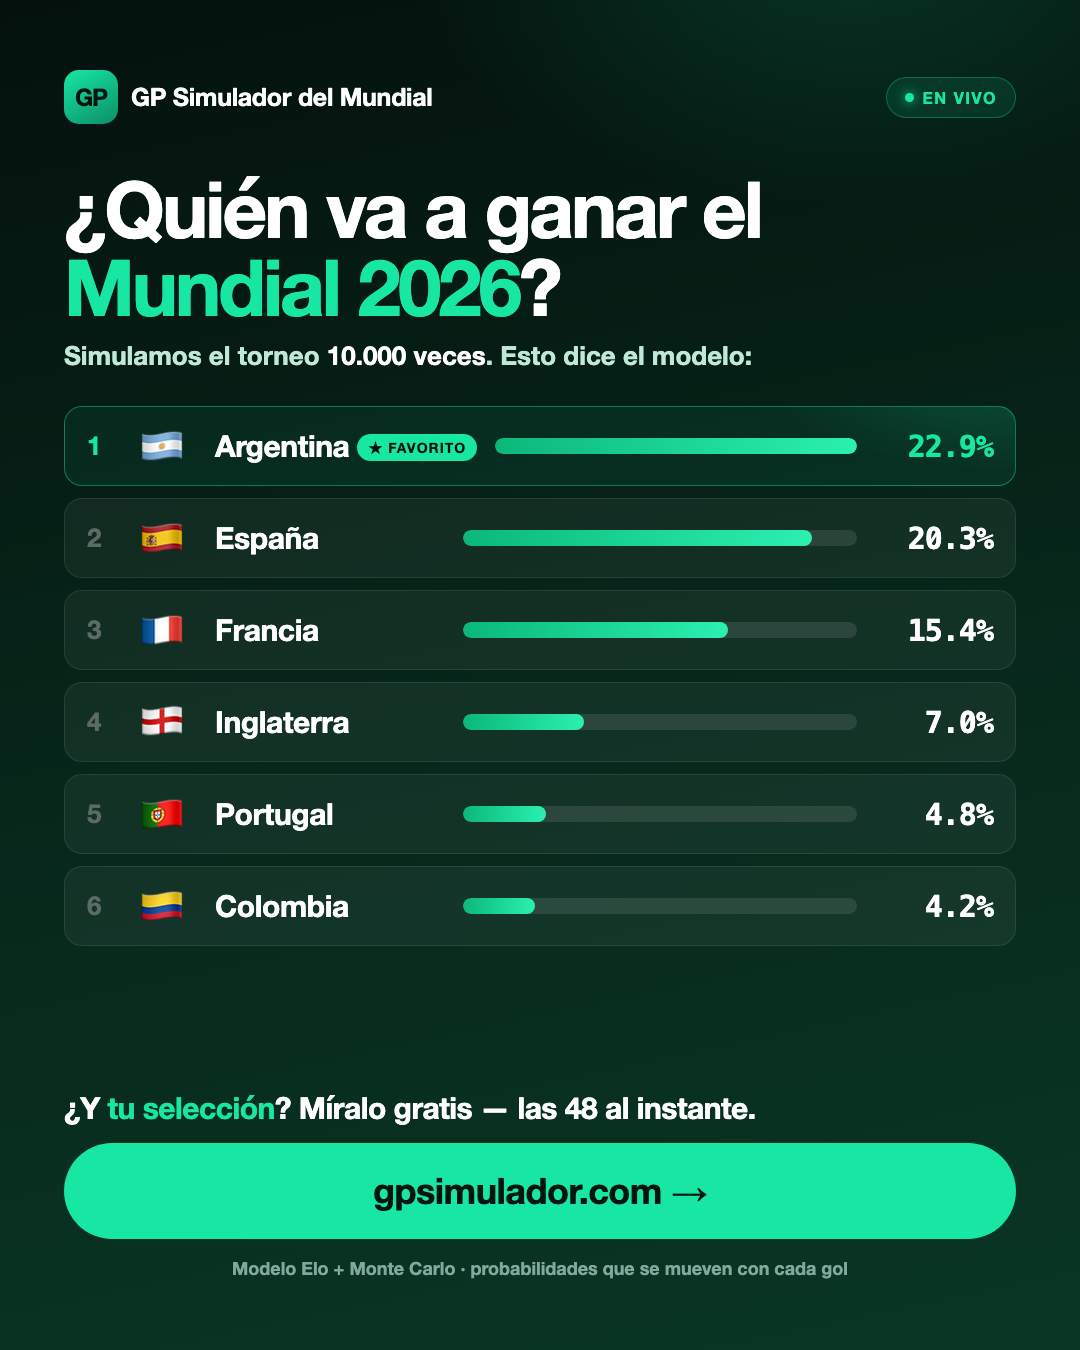
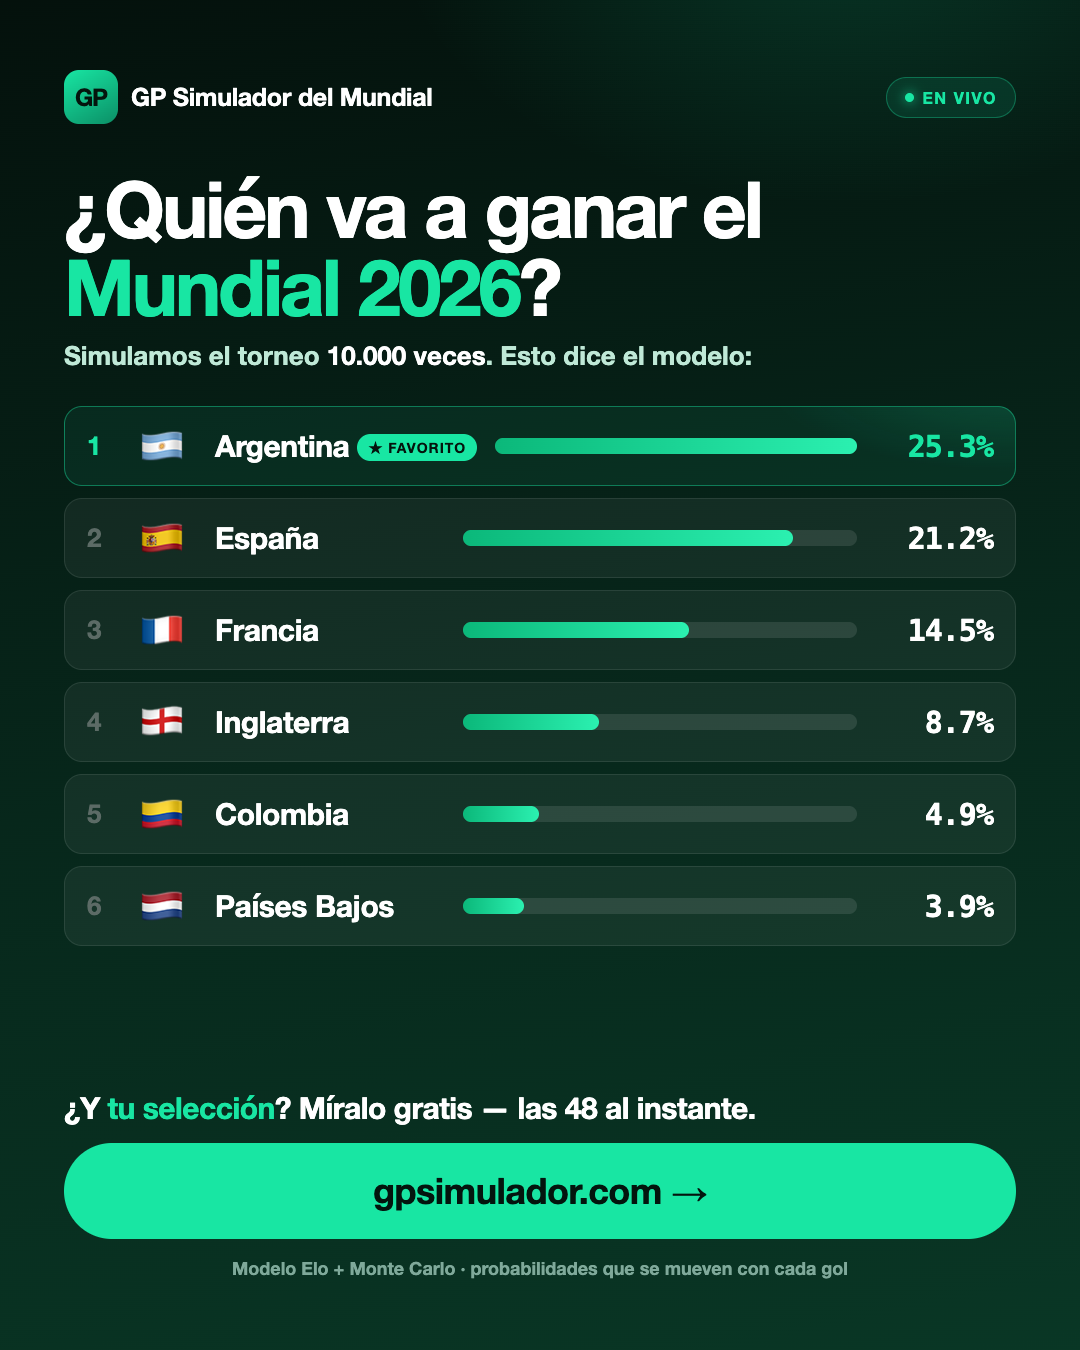
Contenido hoy13 + campana actualizada; fix copy arbitraje Telegram; email List-Unsubscribe; allowlist orquestador
- Contenido jun-23 (story/post/x hoy13) + imagen de campana con top-6 actualizado (Argentina 25.3%...).
- Telegram arbitraje: copy claro y honesto (sin 'ganancia fija'); explica cubrir ambos lados + retorno % + disclaimer.
- Email: header List-Unsubscribe (mejora entregabilidad/anti-spam en Resend) + log del proveedor usado.
- Orquestador: allowlist OPERATIONS_MANAGED_JOBS para gestionar solo sportsbook_ingestion y frenar el churn
  de arb que inunda los logs del shadow (el pipeline de arbitraje sigue via schedulers legacy).

diff --git a/ig-src/x-hoy13.html b/ig-src/x-hoy13.html
@@ -1,0 +1,55 @@
+<!DOCTYPE html>
+<html><head><meta charset="utf-8"><style>
+* { margin: 0; padding: 0; box-sizing: border-box; }
+body { width: 1200px; height: 675px; font-family: -apple-system, 'Helvetica Neue', Arial, sans-serif;
+  background: linear-gradient(160deg, #07271B 0%, #0A5C3C 55%, #0BA661 125%); color: #fff;
+  padding: 40px 56px; position: relative; }
+.brand { display: flex; align-items: center; gap: 11px; margin-bottom: 16px; }
+.badge { width: 40px; height: 40px; border-radius: 12px; background: rgba(255,255,255,.14);
+  display: flex; align-items: center; justify-content: center; font-size: 22px; border: 1px solid rgba(255,255,255,.25); }
+.bname { font-size: 21px; font-weight: 800; }
+.tag { margin-left: auto; background: rgba(229,72,77,.95); font-weight: 800; font-size: 14px; padding: 8px 16px; border-radius: 99px; letter-spacing: 1.5px; }
+h1 { font-size: 32px; font-weight: 800; letter-spacing: -1px; margin-bottom: 16px; }
+.grid { display: grid; grid-template-columns: 1fr 1fr; gap: 12px; }
+.m { background: rgba(255,255,255,.09); border: 1px solid rgba(255,255,255,.18); border-radius: 14px; padding: 14px 18px; }
+.mh { display: flex; align-items: center; justify-content: space-between; margin-bottom: 9px; }
+.mh .t { font-size: 18px; font-weight: 800; }
+.mh .time { font-size: 13px; color: #C9F2DE; font-weight: 600; }
+.bar { display: flex; height: 12px; border-radius: 99px; overflow: hidden; background: rgba(255,255,255,.14); margin-bottom: 7px; }
+.bar .h { background: #7CF2BC; } .bar .d { background: rgba(255,255,255,.38); } .bar .a { background: #5FA8FF; }
+.lbl { display: flex; justify-content: space-between; font-size: 14px; font-weight: 700; }
+.lbl .big { font-weight: 800; }
+.foot { position: absolute; bottom: 30px; left: 56px; right: 56px; display: flex; align-items: center; justify-content: space-between; }
+.cta { background: #fff; color: #067647; font-size: 19px; font-weight: 800; padding: 12px 26px; border-radius: 99px; }
+.foot .small { font-size: 15px; color: #C9F2DE; font-weight: 600; }
+</style></head>
+<body>
+  <div class="brand"><div class="badge">⚽</div><div class="bname">GP Simulador del Mundial</div><div class="tag">● HOY · 4 PARTIDOS</div></div>
+  <h1>Lo que dice el modelo para hoy 📊</h1>
+  <div class="grid">
+    <div class="m">
+      <div class="mh"><div class="t">🇵🇹 Portugal vs Uzbekistán 🇺🇿</div><div class="time">1 PM ET</div></div>
+      <div class="bar"><div class="h" style="width:68.0%"></div><div class="d" style="width:21.3%"></div><div class="a" style="width:10.7%"></div></div>
+      <div class="lbl"><span class="big">🇵🇹 68.0%</span><span>X 21.3%</span><span>UZB 10.7%</span></div>
+    </div>
+    <div class="m">
+      <div class="mh"><div class="t">🏴 Inglaterra vs Ghana 🇬🇭</div><div class="time">4 PM ET</div></div>
+      <div class="bar"><div class="h" style="width:73.9%"></div><div class="d" style="width:17.6%"></div><div class="a" style="width:8.5%"></div></div>
+      <div class="lbl"><span class="big">🏴 73.9%</span><span>X 17.6%</span><span>GHA 8.5%</span></div>
+    </div>
+    <div class="m">
+      <div class="mh"><div class="t">🇵🇦 Panamá vs Croacia 🇭🇷</div><div class="time">7 PM ET</div></div>
+      <div class="bar"><div class="h" style="width:14.5%"></div><div class="d" style="width:24.2%"></div><div class="a" style="width:61.3%"></div></div>
+      <div class="lbl"><span>PAN 14.5%</span><span>X 24.2%</span><span class="big">🇭🇷 61.3%</span></div>
+    </div>
+    <div class="m">
+      <div class="mh"><div class="t">🇨🇴 Colombia vs RD Congo 🇨🇩</div><div class="time">10 PM ET</div></div>
+      <div class="bar"><div class="h" style="width:71.3%"></div><div class="d" style="width:19.5%"></div><div class="a" style="width:9.2%"></div></div>
+      <div class="lbl"><span class="big">🇨🇴 71.3%</span><span>X 19.5%</span><span>COD 9.2%</span></div>
+    </div>
+  </div>
+  <div class="foot">
+    <div class="small">Se mueven EN VIVO con cada gol · 10,000 simulaciones</div>
+    <div class="cta">gpsimulador.com</div>
+  </div>
+</body></html>

diff --git a/ig-src/post-hoy13.html b/ig-src/post-hoy13.html
@@ -1,0 +1,52 @@
+<!DOCTYPE html>
+<html><head><meta charset="utf-8"><style>
+* { margin: 0; padding: 0; box-sizing: border-box; }
+body { width: 1080px; height: 1080px; font-family: -apple-system, 'Helvetica Neue', Arial, sans-serif;
+  background: linear-gradient(160deg, #07271B 0%, #0A5C3C 55%, #0BA661 120%); color: #fff;
+  display: flex; flex-direction: column; padding: 64px 60px; position: relative; }
+.brand { display: flex; align-items: center; gap: 12px; }
+.badge { width: 46px; height: 46px; border-radius: 13px; background: rgba(255,255,255,.14);
+  display: flex; align-items: center; justify-content: center; font-size: 25px; border: 1px solid rgba(255,255,255,.25); }
+.bname { font-size: 22px; font-weight: 800; }
+.tag { margin-left: auto; background: rgba(229,72,77,.95); font-weight: 800; font-size: 16px; padding: 10px 20px; border-radius: 99px; letter-spacing: 1.5px; }
+h1 { font-size: 46px; font-weight: 800; letter-spacing: -1.3px; margin: 26px 0 22px; }
+.m { background: rgba(255,255,255,.09); border: 1px solid rgba(255,255,255,.18); border-radius: 18px; padding: 18px 22px; margin-bottom: 14px; }
+.mh { display: flex; align-items: center; justify-content: space-between; margin-bottom: 12px; }
+.mh .t { font-size: 24px; font-weight: 800; }
+.mh .time { font-size: 15px; color: #C9F2DE; font-weight: 600; }
+.bar { display: flex; height: 16px; border-radius: 99px; overflow: hidden; background: rgba(255,255,255,.14); margin-bottom: 9px; }
+.bar .h { background: #7CF2BC; } .bar .d { background: rgba(255,255,255,.38); } .bar .a { background: #5FA8FF; }
+.lbl { display: flex; justify-content: space-between; font-size: 17px; font-weight: 700; }
+.lbl .big { font-weight: 800; }
+.foot { margin-top: auto; display: flex; align-items: center; justify-content: space-between; }
+.cta { background: #fff; color: #067647; font-size: 22px; font-weight: 800; padding: 16px 30px; border-radius: 99px; }
+.foot .small { font-size: 18px; color: #C9F2DE; font-weight: 600; }
+</style></head>
+<body>
+  <div class="brand"><div class="badge">⚽</div><div class="bname">GP Simulador del Mundial</div><div class="tag">● HOY · 4 PARTIDOS</div></div>
+  <h1>Lo que dice el modelo hoy 📊</h1>
+  <div class="m">
+    <div class="mh"><div class="t">🇵🇹 Portugal vs Uzbekistán 🇺🇿</div><div class="time">1 PM ET</div></div>
+    <div class="bar"><div class="h" style="width:68.0%"></div><div class="d" style="width:21.3%"></div><div class="a" style="width:10.7%"></div></div>
+    <div class="lbl"><span class="big">🇵🇹 68.0%</span><span>X 21.3%</span><span>Uzbekistán 10.7%</span></div>
+  </div>
+  <div class="m">
+    <div class="mh"><div class="t">🏴 Inglaterra vs Ghana 🇬🇭</div><div class="time">4 PM ET</div></div>
+    <div class="bar"><div class="h" style="width:73.9%"></div><div class="d" style="width:17.6%"></div><div class="a" style="width:8.5%"></div></div>
+    <div class="lbl"><span class="big">🏴 73.9%</span><span>X 17.6%</span><span>Ghana 8.5%</span></div>
+  </div>
+  <div class="m">
+    <div class="mh"><div class="t">🇵🇦 Panamá vs Croacia 🇭🇷</div><div class="time">7 PM ET</div></div>
+    <div class="bar"><div class="h" style="width:14.5%"></div><div class="d" style="width:24.2%"></div><div class="a" style="width:61.3%"></div></div>
+    <div class="lbl"><span>Panamá 14.5%</span><span>X 24.2%</span><span class="big">🇭🇷 61.3%</span></div>
+  </div>
+  <div class="m">
+    <div class="mh"><div class="t">🇨🇴 Colombia vs RD Congo 🇨🇩</div><div class="time">10 PM ET</div></div>
+    <div class="bar"><div class="h" style="width:71.3%"></div><div class="d" style="width:19.5%"></div><div class="a" style="width:9.2%"></div></div>
+    <div class="lbl"><span class="big">🇨🇴 71.3%</span><span>X 19.5%</span><span>RD Congo 9.2%</span></div>
+  </div>
+  <div class="foot">
+    <div class="small">Se mueven EN VIVO con cada gol</div>
+    <div class="cta">gpsimulador.com</div>
+  </div>
+</body></html>

diff --git a/ig-src/story-hoy13.html b/ig-src/story-hoy13.html
@@ -1,0 +1,49 @@
+<!DOCTYPE html>
+<html><head><meta charset="utf-8"><style>
+* { margin: 0; padding: 0; box-sizing: border-box; }
+body { width: 1080px; height: 1920px; font-family: -apple-system, 'Helvetica Neue', Arial, sans-serif;
+  background: linear-gradient(170deg, #07271B 0%, #0A5C3C 55%, #0BA661 120%); color: #fff;
+  display: flex; flex-direction: column; justify-content: center; padding: 80px; position: relative; }
+.brand { position: absolute; top: 110px; left: 0; right: 0; text-align: center; font-size: 33px; font-weight: 800; }
+.tag { align-self: center; background: rgba(229,72,77,.95); font-weight: 800; font-size: 27px;
+  padding: 14px 32px; border-radius: 99px; margin-bottom: 44px; letter-spacing: 2px; }
+h1 { text-align: center; font-size: 62px; font-weight: 800; letter-spacing: -2px; margin-bottom: 50px; }
+.m { background: rgba(255,255,255,.09); border: 1px solid rgba(255,255,255,.18); border-radius: 22px; padding: 28px 32px; margin-bottom: 24px; }
+.mh { display: flex; align-items: center; justify-content: space-between; margin-bottom: 18px; }
+.mh .t { font-size: 30px; font-weight: 800; }
+.mh .time { font-size: 19px; color: #C9F2DE; font-weight: 600; }
+.bar { display: flex; height: 22px; border-radius: 99px; overflow: hidden; background: rgba(255,255,255,.14); margin-bottom: 12px; }
+.bar .h { background: #7CF2BC; } .bar .d { background: rgba(255,255,255,.38); } .bar .a { background: #5FA8FF; }
+.lbl { display: flex; justify-content: space-between; font-size: 22px; font-weight: 700; }
+.lbl .big { font-weight: 800; }
+.cta { position: absolute; bottom: 120px; left: 80px; right: 80px; background: #fff; color: #067647;
+  font-size: 34px; font-weight: 800; padding: 28px; border-radius: 99px; text-align: center; }
+.hint { position: absolute; bottom: 84px; left: 0; right: 0; text-align: center; font-size: 24px; color: #C9F2DE; font-weight: 600; }
+</style></head>
+<body>
+  <div class="brand">⚽ GP Simulador del Mundial</div>
+  <div class="tag">● HOY · 4 PARTIDOS</div>
+  <h1>¿Qué dice el modelo? 📊</h1>
+  <div class="m">
+    <div class="mh"><div class="t">🇵🇹 Portugal vs Uzbekistán 🇺🇿</div><div class="time">1 PM ET</div></div>
+    <div class="bar"><div class="h" style="width:68.0%"></div><div class="d" style="width:21.3%"></div><div class="a" style="width:10.7%"></div></div>
+    <div class="lbl"><span class="big">🇵🇹 68.0%</span><span>X 21.3%</span><span>Uzbekistán 10.7%</span></div>
+  </div>
+  <div class="m">
+    <div class="mh"><div class="t">🏴 Inglaterra vs Ghana 🇬🇭</div><div class="time">4 PM ET</div></div>
+    <div class="bar"><div class="h" style="width:73.9%"></div><div class="d" style="width:17.6%"></div><div class="a" style="width:8.5%"></div></div>
+    <div class="lbl"><span class="big">🏴 73.9%</span><span>X 17.6%</span><span>Ghana 8.5%</span></div>
+  </div>
+  <div class="m">
+    <div class="mh"><div class="t">🇵🇦 Panamá vs Croacia 🇭🇷</div><div class="time">7 PM ET</div></div>
+    <div class="bar"><div class="h" style="width:14.5%"></div><div class="d" style="width:24.2%"></div><div class="a" style="width:61.3%"></div></div>
+    <div class="lbl"><span>Panamá 14.5%</span><span>X 24.2%</span><span class="big">🇭🇷 61.3%</span></div>
+  </div>
+  <div class="m">
+    <div class="mh"><div class="t">🇨🇴 Colombia vs RD Congo 🇨🇩</div><div class="time">10 PM ET</div></div>
+    <div class="bar"><div class="h" style="width:71.3%"></div><div class="d" style="width:19.5%"></div><div class="a" style="width:9.2%"></div></div>
+    <div class="lbl"><span class="big">🇨🇴 71.3%</span><span>X 19.5%</span><span>RD Congo 9.2%</span></div>
+  </div>
+  <div class="cta">Míralas EN VIVO → gpsimulador.com</div>
+  <div class="hint">⬆ link en bio</div>
+</body></html>

diff --git a/server.js b/server.js
@@ -780,7 +780,7 @@ function tgFinalText(id) {
 }
 function tgOppText(row, e) {
   const t = teamById[row.id], pc = v => (v * 100).toFixed(1);
-  if (e.type === 'arbitraje') return `🔺 <b>Arbitraje puro</b> · ${t.flag} ${t.name}\n${e.note}\n\n👉 <a href="https://gpsimulador.com/?ref=tg">Ver en gpsimulador.com</a>`;
+  if (e.type === 'arbitraje') return `💸 <b>Arbitraje entre plataformas</b>\n${t.flag} <b>${t.name}</b> · campeón del Mundial\n\n${e.note}\n\n⚠ Estimación entre Polymarket y Kalshi. El margen real depende de la ejecución, las comisiones y la liquidación de cada plataforma. No es consejo financiero.\n\n👉 <a href="https://gpsimulador.com/?ref=tg">Ver en gpsimulador.com</a>`;
   return `🟢 <b>Oportunidad de valor</b>\n${t.flag} <b>${t.name}</b> · campeón · ${e.venue}\nPrecio ${pc(e.price)}¢ · Modelo ${pc(row.model)}% · Edge +${pc(e.edge)}%\n\n👉 <a href="https://gpsimulador.com/?ref=tg">gpsimulador.com</a>`;
 }
 // Publica finales nuevos al canal (no reenvía)
@@ -846,12 +846,14 @@ function arbitrage() {
     if (pm && ks && pm.ask > 0.001 && ks.bid - pm.ask > 0.01) row.edges.push({
       type: 'arbitraje', venue: 'Poly→Kalshi', side: 'SÍ en Polymarket + NO en Kalshi',
       price: pm.ask, edge: ks.bid - pm.ask,
-      note: `Compra SÍ a ${(pm.ask * 100).toFixed(1)}¢ en Poly y NO a ${((1 - ks.bid) * 100).toFixed(1)}¢ en Kalshi → ganancia fija ${((ks.bid - pm.ask) * 100).toFixed(1)}¢`,
+      note: (() => { const cost = pm.ask + (1 - ks.bid), prof = ks.bid - pm.ask, ret = cost > 0 ? prof / cost * 100 : 0;
+        return `Comprás «sí gana» en Polymarket a ${(pm.ask * 100).toFixed(0)}¢ y «no gana» en Kalshi a ${((1 - ks.bid) * 100).toFixed(0)}¢ — cubrís los dos lados. Invertís ${(cost * 100).toFixed(0)}¢ y recuperás 100¢ gane quien gane: +${(prof * 100).toFixed(1)}¢ (~${ret.toFixed(1)}% estimado).`; })(),
     });
     if (pm && ks && ks.ask > 0.001 && pm.bid - ks.ask > 0.01) row.edges.push({
       type: 'arbitraje', venue: 'Kalshi→Poly', side: 'SÍ en Kalshi + NO en Polymarket',
       price: ks.ask, edge: pm.bid - ks.ask,
-      note: `Compra SÍ a ${(ks.ask * 100).toFixed(1)}¢ en Kalshi y NO a ${((1 - pm.bid) * 100).toFixed(1)}¢ en Poly → ganancia fija ${((pm.bid - ks.ask) * 100).toFixed(1)}¢`,
+      note: (() => { const cost = ks.ask + (1 - pm.bid), prof = pm.bid - ks.ask, ret = cost > 0 ? prof / cost * 100 : 0;
+        return `Comprás «sí gana» en Kalshi a ${(ks.ask * 100).toFixed(0)}¢ y «no gana» en Polymarket a ${((1 - pm.bid) * 100).toFixed(0)}¢ — cubrís los dos lados. Invertís ${(cost * 100).toFixed(0)}¢ y recuperás 100¢ gane quien gane: +${(prof * 100).toFixed(1)}¢ (~${ret.toFixed(1)}% estimado).`; })(),
     });
     // Kelly sugerido para apuestas de valor (fracción conservadora 1/4)
     row.edges.forEach(e => {

diff --git a/ig-src/campana-favoritos.html b/ig-src/campana-favoritos.html
@@ -43,12 +43,12 @@ h1 .g { color:#18E6A3; }
   <div class="sub">Simulamos el torneo <b style="color:#fff">10.000 veces</b>. Esto dice el modelo:</div>
 
   <div class="board">
-    <div class="row lead"><div class="rk">1</div><div class="fl">🇦🇷</div><div class="nm">Argentina<span class="tag">★ FAVORITO</span></div><div class="track"><div class="fill" style="width:100%"></div></div><div class="pc">22.9%</div></div>
-    <div class="row"><div class="rk">2</div><div class="fl">🇪🇸</div><div class="nm">España</div><div class="track"><div class="fill" style="width:88.6%"></div></div><div class="pc">20.3%</div></div>
-    <div class="row"><div class="rk">3</div><div class="fl">🇫🇷</div><div class="nm">Francia</div><div class="track"><div class="fill" style="width:67.2%"></div></div><div class="pc">15.4%</div></div>
-    <div class="row"><div class="rk">4</div><div class="fl">🏴</div><div class="nm">Inglaterra</div><div class="track"><div class="fill" style="width:30.6%"></div></div><div class="pc">7.0%</div></div>
-    <div class="row"><div class="rk">5</div><div class="fl">🇵🇹</div><div class="nm">Portugal</div><div class="track"><div class="fill" style="width:21.0%"></div></div><div class="pc">4.8%</div></div>
-    <div class="row"><div class="rk">6</div><div class="fl">🇨🇴</div><div class="nm">Colombia</div><div class="track"><div class="fill" style="width:18.3%"></div></div><div class="pc">4.2%</div></div>
+    <div class="row lead"><div class="rk">1</div><div class="fl">🇦🇷</div><div class="nm">Argentina<span class="tag">★ FAVORITO</span></div><div class="track"><div class="fill" style="width:100%"></div></div><div class="pc">25.3%</div></div>
+    <div class="row"><div class="rk">2</div><div class="fl">🇪🇸</div><div class="nm">España</div><div class="track"><div class="fill" style="width:83.8%"></div></div><div class="pc">21.2%</div></div>
+    <div class="row"><div class="rk">3</div><div class="fl">🇫🇷</div><div class="nm">Francia</div><div class="track"><div class="fill" style="width:57.3%"></div></div><div class="pc">14.5%</div></div>
+    <div class="row"><div class="rk">4</div><div class="fl">🏴</div><div class="nm">Inglaterra</div><div class="track"><div class="fill" style="width:34.4%"></div></div><div class="pc">8.7%</div></div>
+    <div class="row"><div class="rk">5</div><div class="fl">🇨🇴</div><div class="nm">Colombia</div><div class="track"><div class="fill" style="width:19.4%"></div></div><div class="pc">4.9%</div></div>
+    <div class="row"><div class="rk">6</div><div class="fl">🇳🇱</div><div class="nm">Países Bajos</div><div class="track"><div class="fill" style="width:15.4%"></div></div><div class="pc">3.9%</div></div>
   </div>
 
   <div class="cta">

diff --git a/mailer.js b/mailer.js
@@ -107,6 +107,12 @@ async function sendViaResend({ to, subject, text, html }) {
       to: [to],
       reply_to: process.env.MAIL_REPLY_TO || undefined,
       subject, text, html,
+      // List-Unsubscribe mejora la entregabilidad (Gmail/Outlook lo exigen para correo en volumen):
+      // reduce el filtrado a spam y la colocación en "Promociones".
+      headers: {
+        'List-Unsubscribe': `<mailto:${process.env.MAIL_REPLY_TO || 'codigo@gpsimulador.com'}?subject=baja>`,
+        'List-Unsubscribe-Post': 'List-Unsubscribe=One-Click',
+      },
     }),
     signal: AbortSignal.timeout(20000),
   });
@@ -118,13 +124,13 @@ async function sendViaResend({ to, subject, text, html }) {
 
 async function send(opts) {
   if (process.env.RESEND_API_KEY) {
-    try { return await sendViaResend(opts); }
+    try { await sendViaResend(opts); console.log('[mail] resend OK →', opts.to); return; }
     catch (e) {
       if (!process.env.MAIL_WEBHOOK_URL) throw e;
       console.error('[mail] resend falló, usando relay de respaldo:', e.message);
     }
   }
-  if (process.env.MAIL_WEBHOOK_URL) return sendViaWebhook(opts);
+  if (process.env.MAIL_WEBHOOK_URL) { await sendViaWebhook(opts); console.log('[mail] relay GAS OK →', opts.to); return; }
   return sendMail(opts);
 }
 

diff --git a/operations/orchestrator.js b/operations/orchestrator.js
@@ -36,6 +36,10 @@ async function refreshReadiness() {
 function start() {
   if (!cfg.flags.orchestrator) return { started: false, reason: 'orchestrator_disabled' };
   jobs = buildJobs();
+  // allowlist (§12): si está configurada, el orquestador SOLO gestiona esos jobs (el resto siguen en sus
+  // schedulers legacy). Permite activar sportsbook_ingestion sin tocar el pipeline de arbitraje vivo.
+  const allow = cfg.params.managedJobs;
+  if (allow.length) jobs = jobs.filter(j => allow.includes(j.job_name));
   const cycle = depGraph.detectCycle(jobs);
   if (cycle) { log.error('operations: ciclo en el grafo de jobs', { cycle }); return { started: false, reason: 'dependency_cycle', cycle }; }
   refreshReadiness().catch(() => {});

diff --git a/operations/config.js b/operations/config.js
@@ -36,6 +36,10 @@ function resolveParams() {
     recentRunsLimit: int(process.env.OPERATIONS_RECENT_RUNS_LIMIT, 20),
     // margen de gracia para drenar jobs en vuelo durante shutdown
     shutdownDrainMs: int(process.env.OPERATIONS_SHUTDOWN_DRAIN_MS, 8 * 1000),
+    // allowlist: si está seteada (lista separada por comas), el orquestador SOLO gestiona esos jobs y deja
+    // el resto a los schedulers legacy. Permite activar p.ej. solo 'sportsbook_ingestion' sin tocar el
+    // pipeline de arbitraje vivo. Vacío = gestiona todos los jobs habilitados.
+    managedJobs: (process.env.OPERATIONS_MANAGED_JOBS || '').split(',').map(s => s.trim()).filter(Boolean),
   };
 }
 
